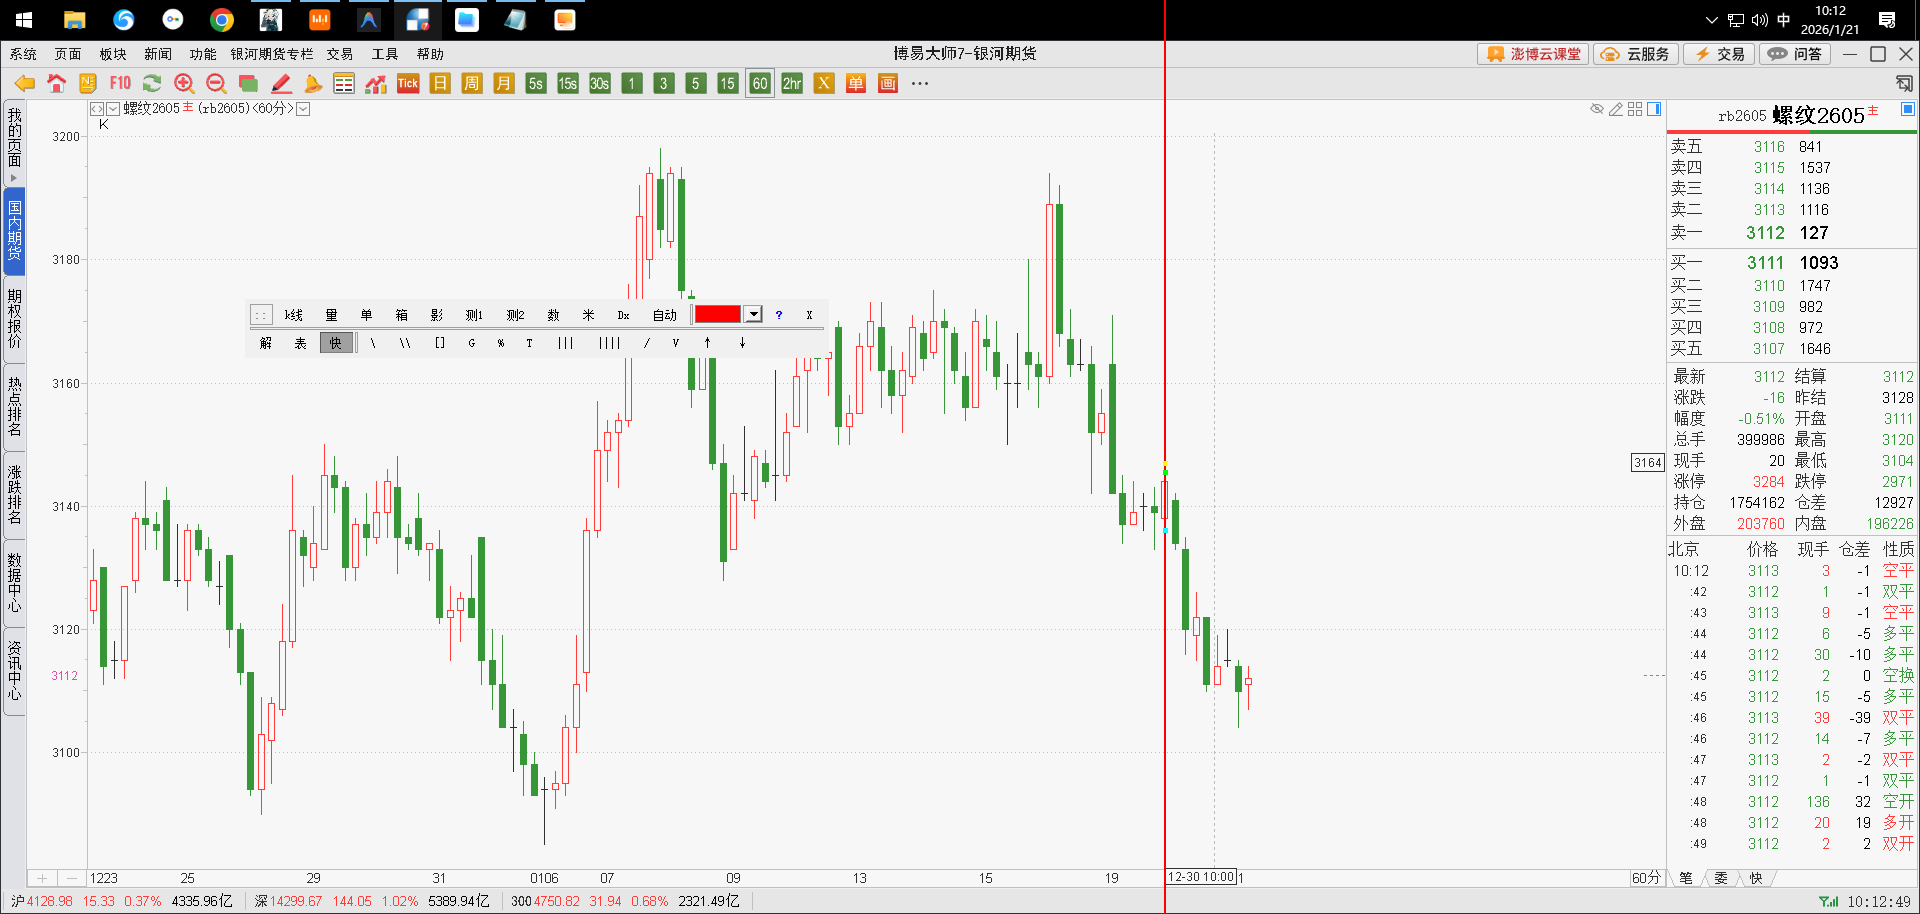
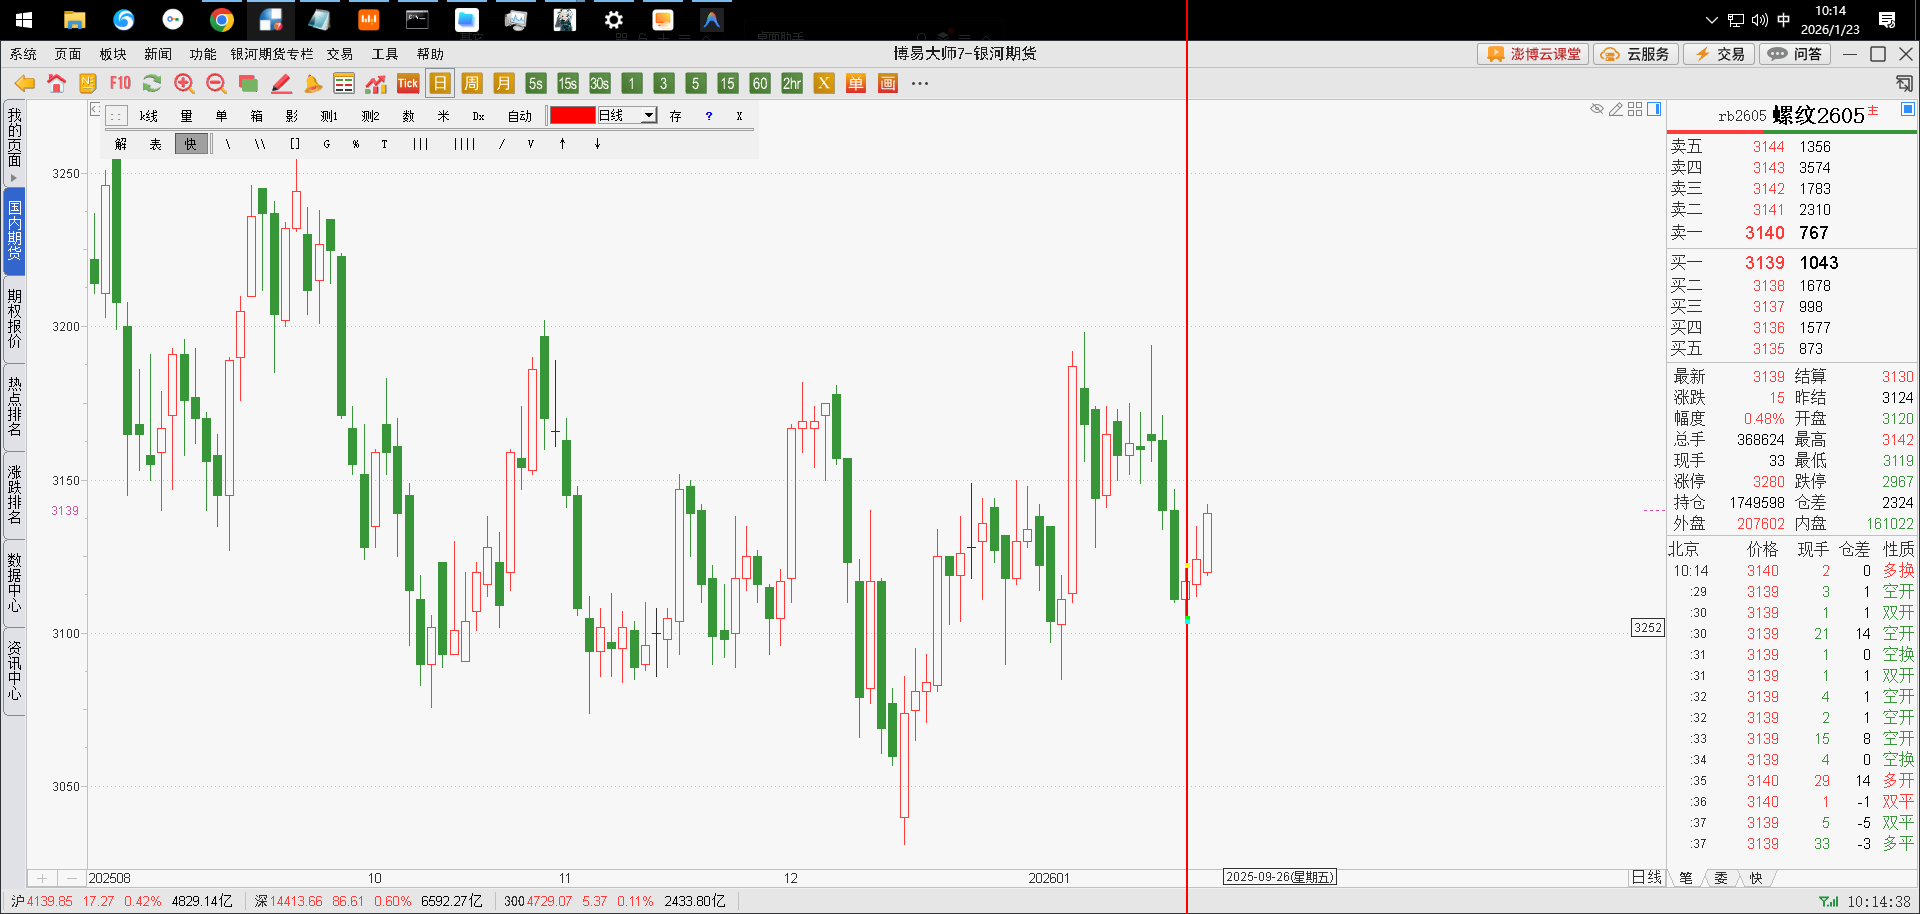
feat: Add Multi-Timeframe Analysis and Snapshot Persistence

diff --git a/ui_analysis.py b/ui_analysis.py
@@ -1,0 +1,216 @@
+
+from PySide6.QtWidgets import (QDialog, QVBoxLayout, QHBoxLayout, QLabel, 
+                               QTableWidget, QTableWidgetItem, QPushButton, 
+                               QTextEdit, QGroupBox, QHeaderView, QLineEdit)
+from PySide6.QtCore import Qt
+from algorithms import BoshenAlgorithms
+
+class AnalysisDialog(QDialog):
+    def __init__(self, analysis_data, parent=None):
+        super().__init__(parent)
+        self.setWindowTitle("波神凯线多周期共振分析 (Multi-Timeframe Analysis)")
+        self.resize(1000, 600)
+        self.analysis_data = analysis_data # Expects dict: {'日线': [], '4小时': [], '1小时': []}
+        
+        self.init_ui()
+        self.load_data()
+        
+    def init_ui(self):
+        main_layout = QVBoxLayout()
+        
+        # Top: Control Area
+        top_layout = QHBoxLayout()
+        self.refresh_btn = QPushButton("刷新数据 (Refresh)")
+        self.refresh_btn.clicked.connect(self.load_data)
+        top_layout.addWidget(self.refresh_btn)
+        top_layout.addStretch()
+        main_layout.addLayout(top_layout)
+        
+        # Middle: 3 Columns for Timeframes
+        data_layout = QHBoxLayout()
+        
+        self.table_daily = self.create_timeframe_table("日线 (Daily)")
+        self.table_4h = self.create_timeframe_table("4小时 (4H)")
+        self.table_1h = self.create_timeframe_table("1小时 (1H)")
+        
+        data_layout.addWidget(self.wrap_in_group("日线数据", self.table_daily))
+        data_layout.addWidget(self.wrap_in_group("4小时数据", self.table_4h))
+        data_layout.addWidget(self.wrap_in_group("1小时数据", self.table_1h))
+        
+        main_layout.addLayout(data_layout)
+        
+        # Bottom: Analysis Results
+        result_group = QGroupBox("共振分析结果 (Resonance Results)")
+        result_layout = QVBoxLayout()
+        
+        # Control Row for Analysis
+        analysis_ctrl_layout = QHBoxLayout()
+        
+        self.compare_btn = QPushButton("开始对比分析 (Analyze Overlaps)")
+        self.compare_btn.setStyleSheet("background-color: #90C8F6; font-weight: bold; padding: 5px;")
+        self.compare_btn.clicked.connect(self.perform_analysis)
+        analysis_ctrl_layout.addWidget(self.compare_btn)
+        
+        analysis_ctrl_layout.addStretch()
+        
+        analysis_ctrl_layout.addWidget(QLabel("容差 (Diff Limit):"))
+        self.tolerance_input = QLineEdit("3.0") # Default to tighter tolerance
+        self.tolerance_input.setFixedWidth(50)
+        analysis_ctrl_layout.addWidget(self.tolerance_input)
+        
+        result_layout.addLayout(analysis_ctrl_layout)
+        
+        self.result_text = QTextEdit()
+        self.result_text.setReadOnly(True)
+        result_layout.addWidget(self.result_text)
+        
+        result_group.setLayout(result_layout)
+        main_layout.addWidget(result_group)
+        
+        self.setLayout(main_layout)
+        
+    def create_timeframe_table(self, title):
+        table = QTableWidget()
+        table.setColumnCount(2)
+        table.setHorizontalHeaderLabels(["系数 (Ratio)", "价格 (Price)"])
+        table.horizontalHeader().setSectionResizeMode(QHeaderView.Stretch)
+        return table
+        
+    def wrap_in_group(self, title, widget):
+        group = QGroupBox(title)
+        layout = QVBoxLayout()
+        layout.addWidget(widget)
+        group.setLayout(layout)
+        return group
+        
+    def load_data(self):
+        # Clear tables
+        self.table_daily.setRowCount(0)
+        self.table_4h.setRowCount(0)
+        self.table_1h.setRowCount(0)
+        
+        self.daily_levels = []
+        self.four_h_levels = []
+        self.one_h_levels = []
+
+        # Helper to process a list for a specifics timeframe
+        def process_list(drawing_list, target_table, target_level_list):
+            for drawing in drawing_list:
+                if 'price_a' not in drawing or 'price_b' not in drawing:
+                    continue
+                
+                # Calculate levels
+                levels = BoshenAlgorithms.calculate_levels(drawing['price_a'], drawing['price_b'])
+                
+                # Add Header
+                row = target_table.rowCount()
+                target_table.insertRow(row)
+                target_table.setItem(row, 0, QTableWidgetItem(f"--- A={drawing['price_a']:.2f} ---"))
+                
+                for r, price in levels:
+                    row = target_table.rowCount()
+                    target_table.insertRow(row)
+                    target_table.setItem(row, 0, QTableWidgetItem(f"{r}"))
+                    target_table.setItem(row, 1, QTableWidgetItem(f"{price:.2f}"))
+                    
+                    target_level_list.append({
+                        'price': price,
+                        'ratio': r,
+                        'source': f"A={drawing['price_a']:.2f}"
+                    })
+
+        # Process from self.analysis_data dictionary
+        if '日线' in self.analysis_data:
+            process_list(self.analysis_data['日线'], self.table_daily, self.daily_levels)
+            
+        if '4小时' in self.analysis_data:
+            process_list(self.analysis_data['4小时'], self.table_4h, self.four_h_levels)
+            
+        if '1小时' in self.analysis_data:
+            process_list(self.analysis_data['1小时'], self.table_1h, self.one_h_levels)
+
+                    
+    def perform_analysis(self):
+        results = []
+        
+        try:
+             tolerance = float(self.tolerance_input.text())
+        except ValueError:
+             tolerance = 3.0 # Fallback
+             self.tolerance_input.setText("3.0")
+        
+        # Helper to find line number from ratio
+        
+        # Helper to find line number from ratio
+        # Ratios: [1.784, 2.351, 3.027, 3.459, 3.865, 4.622, 5.135, 5.865, 6.676]
+        # We can just look it up or pass it in.
+        ratios = [1.784, 2.351, 3.027, 3.459, 3.865, 4.622, 5.135, 5.865, 6.676]
+        
+        # User requested Key Lines only: 3, 5, 6, 7, 8
+        # Indices: 2, 4, 5, 6, 7
+        KEY_LINE_INDICES = [2, 4, 5, 6, 7] 
+
+        def get_line_index(r):
+            try:
+                for i, std_r in enumerate(ratios):
+                    if abs(r - std_r) < 0.001:
+                        return i
+                return -1
+            except:
+                return -1
+
+        def get_line_num(r):
+            idx = get_line_index(r)
+            return idx + 1 if idx != -1 else "?"
+
+        def is_key_line(r):
+            return get_line_index(r) in KEY_LINE_INDICES
+
+        def format_resonance(t1_name, l1, t2_name, l2):
+            # l1 and l2 are dicts: {'price', 'ratio', ...}
+            # Simplified output: "日线1线 和 4小时2线 重合"
+            
+            line1_num = get_line_num(l1['ratio'])
+            line2_num = get_line_num(l2['ratio'])
+            
+            # Use '和' as requested, remove ratios from main text.
+            return (f"{t1_name}{line1_num}线 和 {t2_name}{line2_num}线 重合 "
+                    f"(价格: {l1['price']:.2f} ≈ {l2['price']:.2f}, 差: {abs(l1['price'] - l2['price']):.2f})")
+
+        # Compare Daily vs 4H
+        for d in self.daily_levels:
+            if not is_key_line(d['ratio']): continue # Filter
+            
+            for f in self.four_h_levels:
+                if not is_key_line(f['ratio']): continue # Filter
+                
+                if abs(d['price'] - f['price']) <= tolerance:
+                    results.append(format_resonance("日线", d, "4小时", f))
+                    results.append("-" * 40) # Separator
+                    
+        # Compare Daily vs 1H
+        for d in self.daily_levels:
+            if not is_key_line(d['ratio']): continue
+            
+            for o in self.one_h_levels:
+                if not is_key_line(o['ratio']): continue
+                
+                if abs(d['price'] - o['price']) <= tolerance:
+                    results.append(format_resonance("日线", d, "1小时", o))
+                    results.append("-" * 40)
+
+        # Compare 4H vs 1H
+        for f in self.four_h_levels:
+            if not is_key_line(f['ratio']): continue
+            
+            for o in self.one_h_levels:
+                if not is_key_line(o['ratio']): continue
+                
+                if abs(f['price'] - o['price']) <= tolerance:
+                    results.append(format_resonance("4小时", f, "1小时", o))
+                    results.append("-" * 40)
+
+        if not results:
+            self.result_text.setText("未发现明显的共振线位 (No overlaps found within tolerance).")
+        else:
+            self.result_text.setText("\n".join(results))

diff --git a/overlay.py b/overlay.py
@@ -58,6 +58,12 @@ class Overlay(QWidget):
         
         # Strategy UI Removed per user request
         self.current_timeframe = "日线" # Default to daily or None
+        self.analysis_data = {
+            '日线': [],
+            '4小时': [],
+            '1小时': []
+        }
+        self.load_analysis_data()
         
         # Interaction state
         self.dragging_handle = None 
@@ -75,6 +81,10 @@ class Overlay(QWidget):
     def toggle_fast_mode(self, enabled):
         self.fast_mode = enabled
         print(f"Fast Mode set to: {enabled}")
+
+    def set_timeframe(self, timeframe_name):
+        self.current_timeframe = timeframe_name
+        print(f"Timeframe set to: {self.current_timeframe}")
 
     def auto_measure(self, pos):
         """
@@ -483,7 +493,9 @@ class Overlay(QWidget):
                 'type': 'boshen_single',
                 'start': start_p,
                 'end': end_p,
-                'timeframe': self.current_timeframe # Tag with current timeframe
+                # 'timeframe': ... we don't strictly need to tag them anymore if we use snapshots, 
+                # but might be good for visual debugging.
+                'timeframe': self.current_timeframe 
             }
             
             # Apply global calibration if available
@@ -499,6 +511,55 @@ class Overlay(QWidget):
         finally:
             self.setVisible(True)
             self.update()
+
+    def save_snapshot(self):
+        """
+        Saves the CURRENT drawings to the Analysis Bucket for the current timeframe.
+        Overwrites existing data for that timeframe.
+        """
+        import copy
+        current_tf = self.current_timeframe
+        
+        snapshot = []
+        for d in self.drawings:
+            # We copy specific fields to be safe and independent
+            new_d = {
+                'price_a': d.get('price_a', 0.0),
+                'price_b': d.get('price_b', 0.0),
+                'timeframe': current_tf, # Force tag to the slot we are saving into
+            }
+            snapshot.append(new_d)
+            
+        self.analysis_data[current_tf] = snapshot
+        self.save_analysis_data_to_file()
+        
+        # Feedback
+        print(f"SNAPSHOT SAVED: {len(snapshot)} drawings saved to '{current_tf}' slot.")
+        # Removed QMessageBox to avoid crash.
+
+    def load_analysis_data(self):
+        import json
+        import os
+        try:
+            if os.path.exists("analysis_data.json"):
+                with open("analysis_data.json", "r", encoding='utf-8') as f:
+                    data = json.load(f)
+                    # Merge with default structure to ensure all keys exist
+                    for key in self.analysis_data:
+                        if key in data:
+                            self.analysis_data[key] = data[key]
+                    print("Loaded analysis data from file.")
+        except Exception as e:
+            print(f"Error loading analysis data: {e}")
+
+    def save_analysis_data_to_file(self):
+        import json
+        try:
+            with open("analysis_data.json", "w", encoding='utf-8') as f:
+                json.dump(self.analysis_data, f, indent=4, ensure_ascii=False)
+            print("Saved analysis data to file.")
+        except Exception as e:
+             print(f"Error saving analysis data: {e}")
 
     def apply_calibration(self, drawing):
         """
@@ -567,11 +628,9 @@ class Overlay(QWidget):
         self.current_tool = tool_name
         self.dragging_handle = None 
         
-        # Auto-Calibration Trigger for K-Line
-        if tool_name == "k线":
-             import logging
-             logging.info("Triggering Auto-Calibration for K-Line Tool...")
-             self.auto_calibrate_axis()
+        # User requested to REMOVE auto-calibration on K-line selection to avoid lag.
+        # Calibration should only happen via "Auto" button (ocr_selection).
+        # if tool_name == "k线": ... [Removed]
              
         if tool_name:
             self.setCursor(Qt.CrossCursor)

diff --git a/ui_toolbar.py b/ui_toolbar.py
@@ -33,6 +33,8 @@ class BoshenToolbar(DraggableWidget):
     close_requested = Signal()
     color_changed = Signal(QColor) # Emits the new color
     fast_mode_toggled = Signal(bool) # Emits whether fast mode is on/off
+    timeframe_changed = Signal(str) # Emits the selected timeframe name
+    save_requested = Signal() # Emits when "Save" button is clicked
 
     def __init__(self):
         super().__init__()
@@ -112,9 +114,18 @@ class BoshenToolbar(DraggableWidget):
         row1.addWidget(self.color_btn)
         
         # Dropdown
-        combo = QComboBox()
-        combo.setFixedWidth(20)
-        row1.addWidget(combo)
+        self.combo = QComboBox() # Save reference to access later if needed
+        self.combo.addItems(["日线", "4小时", "1小时"])
+        self.combo.setFixedWidth(60) # Increased width to fit text
+        self.combo.currentTextChanged.connect(self.timeframe_changed.emit)
+        row1.addWidget(self.combo)
+
+        # "Save" Button (Snapshot)
+        save_btn = QToolButton()
+        save_btn.setText("存") # Store/Save
+        save_btn.setToolTip("保存当前屏幕线段到选定时区 (Save current drawings to selected Timeframe)")
+        save_btn.clicked.connect(self.save_requested.emit)
+        row1.addWidget(save_btn)
         
         # Help and Close
         help_btn = QToolButton()

diff --git a/main.py b/main.py
@@ -3,6 +3,7 @@ import sys
 from PySide6.QtWidgets import QApplication
 from ui_toolbar import BoshenToolbar
 from overlay import Overlay
+from ui_analysis import AnalysisDialog
 
 def main():
     app = QApplication(sys.argv)
@@ -57,7 +58,13 @@ def main():
     
     # Connect signals
     def on_tool_selected(tool_name):
-        overlay.set_tool(tool_name)
+        if tool_name == "量":
+            # Open Analysis Dialog with SNAPSHOT DATA
+            dialog = AnalysisDialog(overlay.analysis_data, parent=toolbar)
+            dialog.exec()
+            # Dont set tool to "量", just keep previous or None
+        else:
+            overlay.set_tool(tool_name)
         
     toolbar.tool_selected.connect(on_tool_selected)
     
@@ -65,6 +72,8 @@ def main():
     toolbar.close_requested.connect(app.quit)
     toolbar.color_changed.connect(overlay.set_line_color)
     toolbar.fast_mode_toggled.connect(overlay.toggle_fast_mode)
+    toolbar.timeframe_changed.connect(overlay.set_timeframe)
+    toolbar.save_requested.connect(overlay.save_snapshot)
     
     # Optional: Position toolbar initially
     toolbar.move(100, 100)